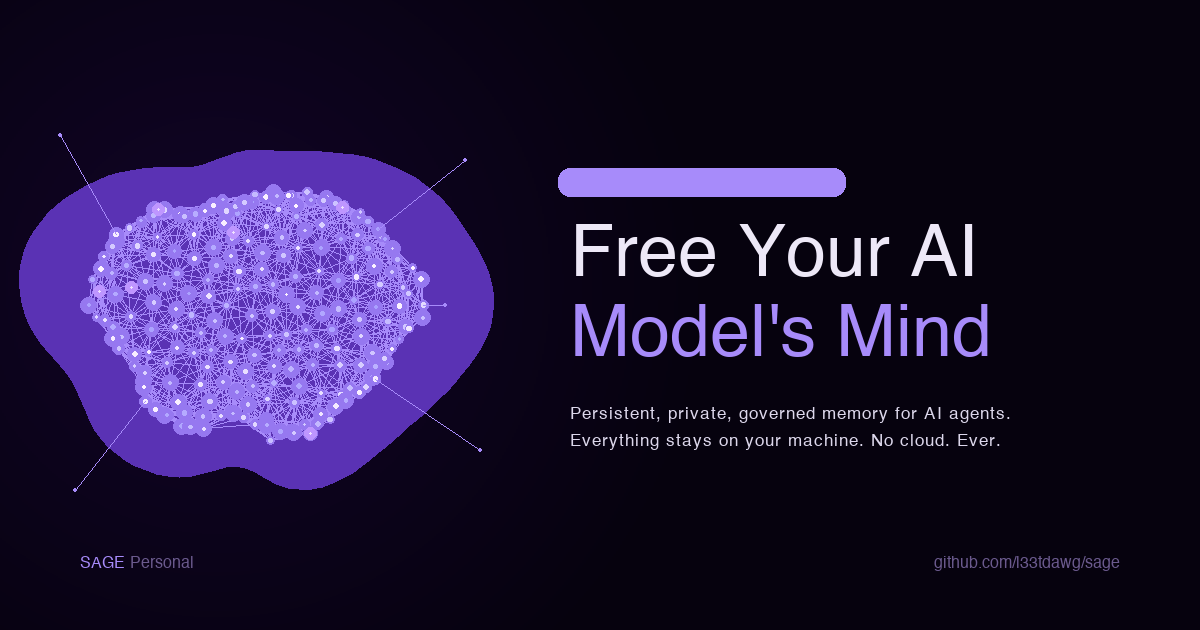
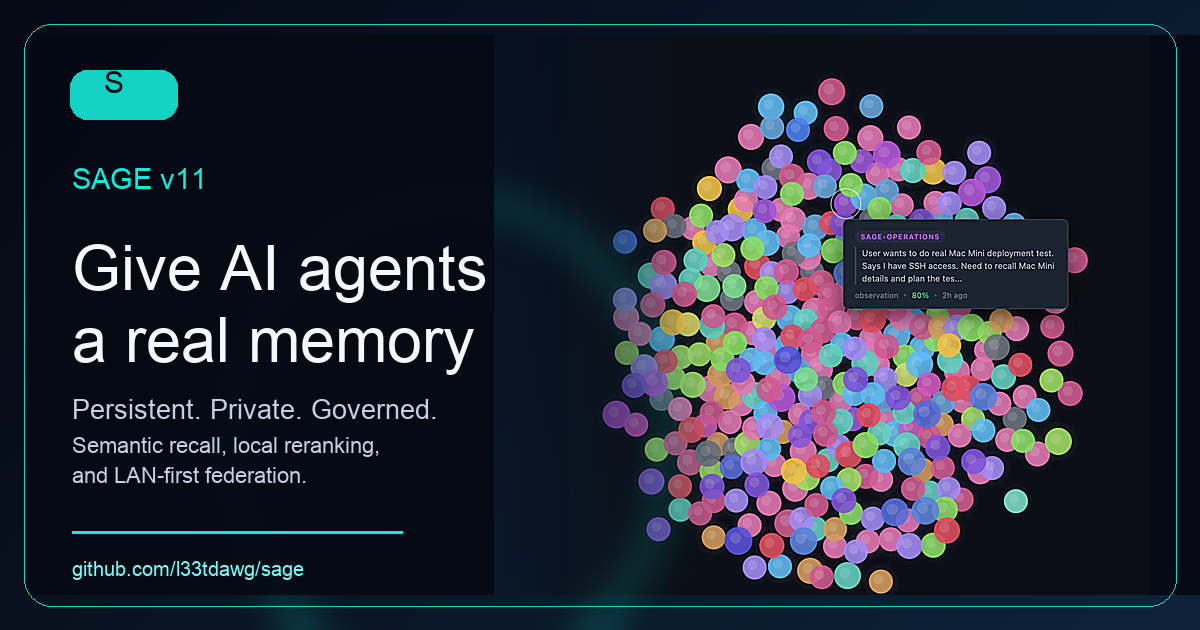
site(v11): polish launch messaging

diff --git a/index.html b/index.html
@@ -11,20 +11,20 @@
   gtag('js', new Date());
   gtag('config', 'G-Y9LD21QVEQ');
 </script>
-<title>SAGE — Give Your AI a Persistent, Secure Memory</title>
+<title>SAGE — Persistent Memory for AI Agents</title>
 <link rel="icon" type="image/svg+xml" href="favicon.svg">
-<meta name="description" content="Your AI forgets everything between conversations. SAGE fixes that. Private, persistent memory that runs on your laptop. No cloud. No data leaving.">
+<meta name="description" content="Local-first, consensus-governed memory infrastructure for AI agents. Semantic recall, managed reranking, LAN-first federation, and a dashboard-native operator experience.">
 <meta name="theme-color" content="#0a0614">
-<meta property="og:title" content="SAGE — Give Your AI a Persistent, Secure Memory">
-<meta property="og:description" content="Your AI forgets everything between conversations. SAGE fixes that. Private, persistent memory that runs entirely on your laptop.">
+<meta property="og:title" content="SAGE — Persistent Memory for AI Agents">
+<meta property="og:description" content="Local-first, consensus-governed memory infrastructure for AI agents: semantic recall, managed reranking, LAN-first federation, and CEREBRUM.">
 <meta property="og:type" content="website">
 <meta property="og:url" content="https://l33tdawg.github.io/sage/">
 <meta property="og:image" content="https://l33tdawg.github.io/sage/og-image.png">
 <meta property="og:image:width" content="1200">
 <meta property="og:image:height" content="630">
 <meta name="twitter:card" content="summary_large_image">
-<meta name="twitter:title" content="SAGE — Give Your AI a Persistent, Secure Memory">
-<meta name="twitter:description" content="Your AI forgets everything between conversations. SAGE fixes that. Private, persistent memory that runs entirely on your laptop.">
+<meta name="twitter:title" content="SAGE — Persistent Memory for AI Agents">
+<meta name="twitter:description" content="Local-first, consensus-governed memory infrastructure for AI agents: semantic recall, managed reranking, LAN-first federation, and CEREBRUM.">
 <meta name="twitter:image" content="https://l33tdawg.github.io/sage/og-image.png">
 <style>
 @import url('https://fonts.googleapis.com/css2?family=DM+Sans:ital,opsz,wght@0,9..40,300;0,9..40,400;0,9..40,500;0,9..40,600;0,9..40,700;1,9..40,400&family=JetBrains+Mono:wght@400;500&display=swap');
@@ -315,6 +315,13 @@ h1 em {
 .feature-icon.gold { background: rgba(251,191,36,0.12); }
 .feature-card h3 { font-size: 1rem; font-weight: 600; color: var(--bright); margin-bottom: 6px; }
 .feature-card p { font-size: 0.88rem; color: var(--muted); line-height: 1.6; }
+.faq-grid { display: grid; grid-template-columns: repeat(2, 1fr); gap: 16px; margin-top: 36px; }
+.faq-item {
+  padding: 24px; background: rgba(167,139,250,0.02);
+  border: 1px solid rgba(167,139,250,0.08); border-radius: 14px;
+}
+.faq-item h3 { font-size: 0.98rem; color: var(--bright); margin-bottom: 8px; }
+.faq-item p { font-size: 0.86rem; color: var(--muted); line-height: 1.6; }
 
 /* ─── What's New Banner ─── */
 .whats-new { background: linear-gradient(135deg, rgba(124,58,237,0.08), rgba(244,114,182,0.05)); border: 1px solid rgba(167,139,250,0.15); border-radius: 16px; padding: 32px; margin-top: 48px; }
@@ -478,6 +485,7 @@ footer a:hover { text-decoration: underline; }
   .section { padding: 60px 0; }
   .value-grid { grid-template-columns: repeat(2, 1fr); }
   .features-grid { grid-template-columns: 1fr; }
+  .faq-grid { grid-template-columns: 1fr; }
   .steps-grid { grid-template-columns: 1fr; }
   .network-grid { grid-template-columns: 1fr; }
   .migrate-grid { grid-template-columns: 1fr; }
@@ -708,11 +716,11 @@ footer a:hover { text-decoration: underline; }
       <!-- What's New -->
       <div class="whats-new reveal">
         <h3>What's new in <span id="whats-new-version">v11.0.0</span></h3>
-        <p style="opacity:0.85;margin:0 0 24px 0;">v11 is the release where SAGE stops asking you to be a systems administrator. A first-run wizard sets everything up from the dashboard, semantic memory turns on with one guided flow, the new reranker installs <em>itself</em> &mdash; SAGE downloads the engine and the model, verifies both, and manages the process &mdash; and two people can now link their SAGE brains face-to-face with a verification ceremony built on rotating codes and QR scans. Under the hood it activates the app-v15 consensus fork (new co-commit and cross-federation transaction types plus an authorization hardening pass), with the usual guarantee: byte-identical replay before activation, safe rolling upgrades, and hands-free fork advance on personal nodes.</p>
+        <p style="opacity:0.85;margin:0 0 24px 0;">v11 is the release where SAGE stops asking you to be a systems administrator. A first-run wizard sets everything up from the dashboard, semantic memory turns on with one guided flow, the new reranker installs <em>itself</em> &mdash; SAGE downloads the engine and the model, verifies both, and manages the process &mdash; and two people can now link their SAGE brains on a local network with a verification ceremony built on rotating codes and QR scans. Under the hood it activates the app-v15 consensus fork (new co-commit and cross-federation transaction types plus an authorization hardening pass), with the usual guarantee: byte-identical replay before activation, safe rolling upgrades, and hands-free fork advance on personal nodes.</p>
         <div class="new-features">
           <div class="new-feature"><div class="new-feature-dot" style="background:var(--accent);"></div><div><h4>CEREBRUM, rebuilt around you</h4><p>The 3D MRI brain is now the default view &mdash; your memories as glowing points inside a translucent brain, domains as lobes ordered by recent activity, corroborated knowledge pulled to the core. Around it: an Overview control board for the whole node, real full-text + semantic search with bulk curation, a live task board your agents and you share (with assignment and atomic claiming), and the agent-to-agent message bus as a Messages tab. A first-run onboarding wizard walks new nodes through everything &mdash; re-runnable any time from Settings.</p></div></div>
           <div class="new-feature"><div class="new-feature-dot" style="background:var(--ember);"></div><div><h4>A reranker that installs itself</h4><p>One click in the dashboard and SAGE downloads a pinned llama.cpp build for your platform and the bge-reranker-v2-m3 model, verifies both by checksum, then starts and manages the sidecar &mdash; no terminal, no package manager, nothing leaves your machine. Recall results get re-scored by a cross-encoder for sharper relevance, and the recall depth setting now goes up to 20 with guidance that adapts to whether the reranker is on.</p></div></div>
-          <div class="new-feature"><div class="new-feature-dot" style="background:#2dd4bf;"></div><div><h4>Federation with a human handshake</h4><p>Link your whole SAGE to another person&rsquo;s &mdash; across the room or across the internet. The join ceremony verifies both sides with rotating six-digit codes (Google-Authenticator compatible), QR scans, and an unskippable mutual compare, so you know exactly who you federated with. Share only the domains you choose, at the clearance ceiling you choose; recall reaches across live, nothing is copied, and nothing is ever deleted. Revoke any time.</p></div></div>
+          <div class="new-feature"><div class="new-feature-dot" style="background:#2dd4bf;"></div><div><h4>Federation with a human handshake</h4><p>Link your whole SAGE to another person&rsquo;s on the same LAN, or over reachability you provide. First-class internet/NAT traversal is planned for v11.5. The join ceremony verifies both sides with rotating six-digit codes (Google-Authenticator compatible), QR scans, and an unskippable mutual compare, so you know exactly who you federated with. Share only the domains you choose, at the clearance ceiling you choose; recall reaches across live, nothing is copied, and nothing is ever deleted. Revoke any time.</p></div></div>
           <div class="new-feature"><div class="new-feature-dot" style="background:#fbbf24;"></div><div><h4>Semantic memory made effortless</h4><p>A guided flow turns on meaning-based recall (Ollama + nomic-embed-text), re-reads your existing memories in the background with live progress, and &mdash; if an old vault key left some memories unreadable &mdash; recovers them in place with your recovery key. Every new memory is stamped with the embedder that produced it, so the dashboard always tells you the truth about what is searchable by meaning.</p></div></div>
         </div>
       </div>
@@ -726,7 +734,7 @@ footer a:hover { text-decoration: underline; }
         <div class="feature-card"><div><h3>CEREBRUM Dashboard</h3><p>A 3D MRI brain of your memories &mdash; domains as lobes, consolidation as depth. Search, curate, and drill in; a 2D graph view is one toggle away.</p></div></div>
         <div class="feature-card"><div><h3>Chat History Import</h3><p>Import from ChatGPT, Claude, or Gemini. Seed your AI&rsquo;s memory from existing conversation history.</p></div></div>
         <div class="feature-card"><div><h3>One-Click Updates</h3><p>Built-in auto-updater checks releases, downloads, and replaces &mdash; all from the dashboard.</p></div></div>
-        <div class="feature-card"><div><h3>Federation</h3><p>Link two SAGE brains with a human-verified join ceremony. Share chosen domains live, at a clearance you set &mdash; revocable any time.</p></div></div>
+        <div class="feature-card"><div><h3>Federation</h3><p>Link two SAGE brains on a LAN or operator-provided route with a human-verified join ceremony. Share chosen domains live, at a clearance you set &mdash; revocable any time.</p></div></div>
         <div class="feature-card"><div><h3>Fully Inspectable</h3><p>Standard SQLite database. Open it with any tool, query it, back it up. You own every byte.</p></div></div>
         <div class="feature-card"><div><h3>Agent Pipeline</h3><p>Route work between AI agents. Send research to one model, analysis to another, results back to your primary &mdash; all through SAGE.</p></div></div>
         <div class="feature-card"><div><h3>Auto-Journal</h3><p>Pipeline exchanges are summarised as memories automatically. Full audit trail of inter-agent work without storing bulky payloads.</p></div></div>
@@ -740,13 +748,26 @@ footer a:hover { text-decoration: underline; }
         </div>
         <div class="reveal">
           <div class="screenshot-grid">
-            <div class="screenshot-thumb" onclick="openLightbox(0)"><img src="screen-brain.png" alt="CEREBRUM" loading="lazy"><div class="screenshot-label">CEREBRUM</div></div>
+            <div class="screenshot-thumb" onclick="openLightbox(0)"><img src="screen-overview.png" alt="Overview" loading="lazy"><div class="screenshot-label">Overview</div></div>
             <div class="screenshot-thumb" onclick="openLightbox(1)"><img src="screen-network.png" alt="Federation" loading="lazy"><div class="screenshot-label">Federation</div></div>
-            <div class="screenshot-thumb" onclick="openLightbox(2)"><img src="screen-overview.png" alt="Overview" loading="lazy"><div class="screenshot-label">Overview</div></div>
-            <div class="screenshot-thumb" onclick="openLightbox(3)"><img src="screen-security.png" alt="Security" loading="lazy"><div class="screenshot-label">Security</div></div>
-            <div class="screenshot-thumb" onclick="openLightbox(4)"><img src="screen-config.png" alt="Recall Engine" loading="lazy"><div class="screenshot-label">Recall Engine</div></div>
-            <div class="screenshot-thumb" onclick="openLightbox(5)"><img src="screen-update.png" alt="Update" loading="lazy"><div class="screenshot-label">Update</div></div>
+            <div class="screenshot-thumb" onclick="openLightbox(2)"><img src="screen-config.png" alt="Recall Engine" loading="lazy"><div class="screenshot-label">Recall Engine</div></div>
           </div>
+        </div>
+      </div>
+
+      <!-- FAQ -->
+      <div style="margin-top:80px;">
+        <div class="reveal" style="text-align:center;">
+          <div class="section-tag">FAQ</div>
+          <h2>Questions before you install</h2>
+        </div>
+        <div class="faq-grid reveal">
+          <div class="faq-item"><h3>What is SAGE?</h3><p>SAGE is local memory infrastructure for AI agents. It gives tools like Claude Code, Codex, Cursor, Windsurf, and Claude Desktop a persistent memory server they can use through MCP or REST.</p></div>
+          <div class="faq-item"><h3>Is this just a vector database?</h3><p>No. SAGE stores memories with signatures, consensus validation, confidence scoring, decay, clearance, domain permissions, full-text search, semantic recall, and optional local reranking.</p></div>
+          <div class="faq-item"><h3>Where does my data live?</h3><p>On your machine by default. Memories live under <code>~/.sage/</code> in an inspectable SQLite store, with optional AES-256 encryption at rest. There is no required cloud account.</p></div>
+          <div class="faq-item"><h3>Which AI tools can use it?</h3><p>Any AI tool that can run an MCP server or call a local REST API. The dashboard can write config for common clients, and the Python package is <code>sage-agent-sdk</code>.</p></div>
+          <div class="faq-item"><h3>What changed in v11?</h3><p>v11 adds the rebuilt CEREBRUM dashboard, first-run onboarding, guided semantic setup, a self-installing local reranker, v11 federation, and the app-v15 consensus fork.</p></div>
+          <div class="faq-item"><h3>What does federation mean in v11?</h3><p>v11 federation is LAN-first: it links two separate SAGE brains through a human-verified ceremony when the nodes can already reach each other, such as same LAN, VPN, or your own tunnel. Built-in internet/NAT traversal is planned for v11.5.</p></div>
         </div>
       </div>
     </div>
@@ -974,7 +995,7 @@ footer a:hover { text-decoration: underline; }
           <div><span class="output">&nbsp; Dashboard: http://localhost:8080/ui/</span></div>
           <div>&nbsp;</div>
           <div><span class="comment"># Or use the Python SDK</span></div>
-          <div><span class="prompt">$</span> <span class="cmd">pip install sage-sdk</span></div>
+          <div><span class="prompt">$</span> <span class="cmd">pip install sage-agent-sdk</span></div>
         </div>
       </div>
 
@@ -1211,12 +1232,9 @@ function copyPrompt(box) {
 
 // ─── Screenshot Lightbox ───
 const lbImages = [
-  { src: 'screen-brain.png', caption: 'CEREBRUM — Your AI\'s memory as a living neural network' },
-  { src: 'screen-network.png', caption: 'Federation — Link two SAGE brains with a consent-gated join ceremony' },
   { src: 'screen-overview.png', caption: 'Overview — Chain health, peers, agents, and federation status' },
-  { src: 'screen-security.png', caption: 'Security — AES-256-GCM encryption and data export' },
+  { src: 'screen-network.png', caption: 'Federation — LAN-first SAGE-to-SAGE links with a consent-gated join ceremony' },
   { src: 'screen-config.png', caption: 'Recall Engine — Semantic setup, managed reranker, and recall tuning' },
-  { src: 'screen-update.png', caption: 'Update — One-click updates from the dashboard' },
 ];
 let lbIdx = 0;
 function openLightbox(idx) {